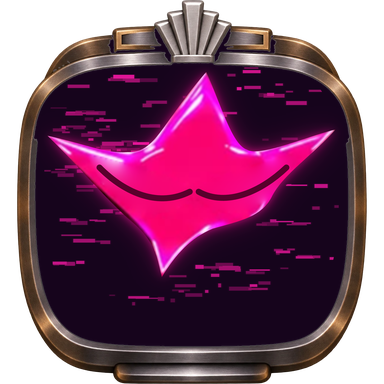
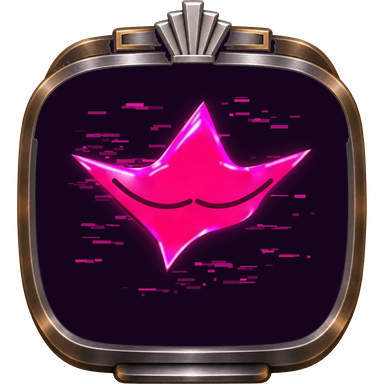
AI screens round 2: centre each AI's own body box in the glass, sized by the largest (nothing high or cut)

diff --git a/tools/units/build_heroes_1117.py b/tools/units/build_heroes_1117.py
@@ -54,6 +54,7 @@ def heroes():
         Image.fromarray(w).save(f"{OUT}hero_neon_{f}.png", optimize=True)
 
 
+FILL = 0.80          # the tallest / widest AI fills this share of the glass
 FRAME_DIR = REF + "ai-screen-frame-2026-11-17/"
 FRAME_SRC = FRAME_DIR + "ai-screen-frame-daniele-2026-11-17.webp"
 FRAME_CLEAN = FRAME_DIR + "ai-screen-frame-daniele-2026-11-17_clean-alpha.png"   # derivative next to the immutable source
@@ -102,9 +103,15 @@ def screens():
     side = max(fb[2] - fb[0], fb[3] - fb[1])
     cx, cy = (fb[0] + fb[2]) // 2, (fb[1] + fb[3]) // 2
     crop = (cx - side // 2, cy - side // 2, cx - side // 2 + side, cy - side // 2 + side)
-    k = min((mb[2] - mb[0]) / (bb[2] - bb[0]), (mb[3] - mb[1]) / (bb[3] - bb[1])) * 0.93     # contain: the whole portrait stays inside the glass (rounded corners still clip the glitch lines)
-    ox = (mb[0] + mb[2]) / 2 - (bb[0] + bb[2]) / 2 * k
-    oy = (mb[1] + mb[3]) / 2 - (bb[1] + bb[3]) / 2 * k
+    # Daniele 2026-11-17 (round 2): "the AIs look too high in the screen and cut" -> centre each AI's OWN body box in the glass and size
+    # every AI by the widest / tallest one (so they keep their relative sizes), with a margin; the glitch layer moves with it.
+    boxes = {}
+    for f, n in AI.items():
+        u = over(load(f"ai-clean/{n}-GLOW.png"), load(f"ai-clean/{n}-BODY.png"))
+        boxes[f] = u.getchannel("A").point(lambda v: 255 if v > 24 else 0).getbbox()
+    gw, gh = mb[2] - mb[0], mb[3] - mb[1]
+    k = min(min(gw * FILL / (x[2] - x[0]), gh * FILL / (x[3] - x[1])) for x in boxes.values())
+    print("fill k", round(k, 3), {f: x for f, x in boxes.items()})
     glass = Image.new("RGBA", frame.size, (22, 4, 28, 0))
     glass.putalpha(mm)
     holed = frame.copy()
@@ -116,6 +123,9 @@ def screens():
             for layer in ("GLOW", "BODY", eyes):
                 im = over(im, load(f"ai-clean/{n}-{layer}.png"))
             im = im.resize((round(im.width * k), round(im.height * k)), Image.LANCZOS)
+            x0, y0, x1, y1 = boxes[f]
+            ox = (mb[0] + mb[2]) / 2 - (x0 + x1) / 2 * k
+            oy = (mb[1] + mb[3]) / 2 - (y0 + y1) / 2 * k
             cv = Image.new("RGBA", frame.size, (0, 0, 0, 0))
             cv.paste(im, (round(ox), round(oy)))
             r, g, b, a = cv.split()
